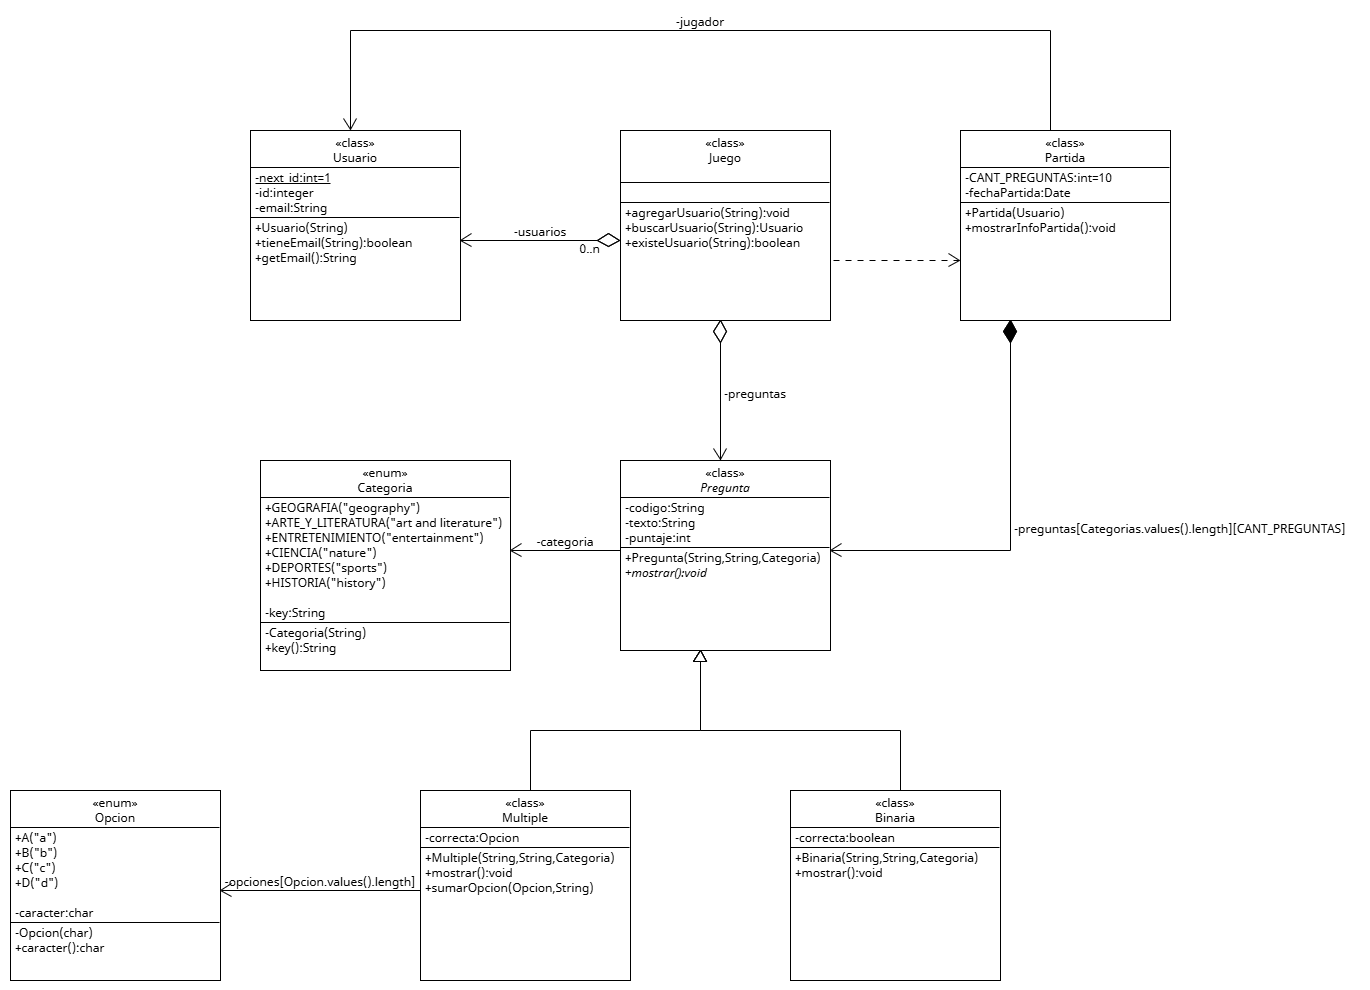
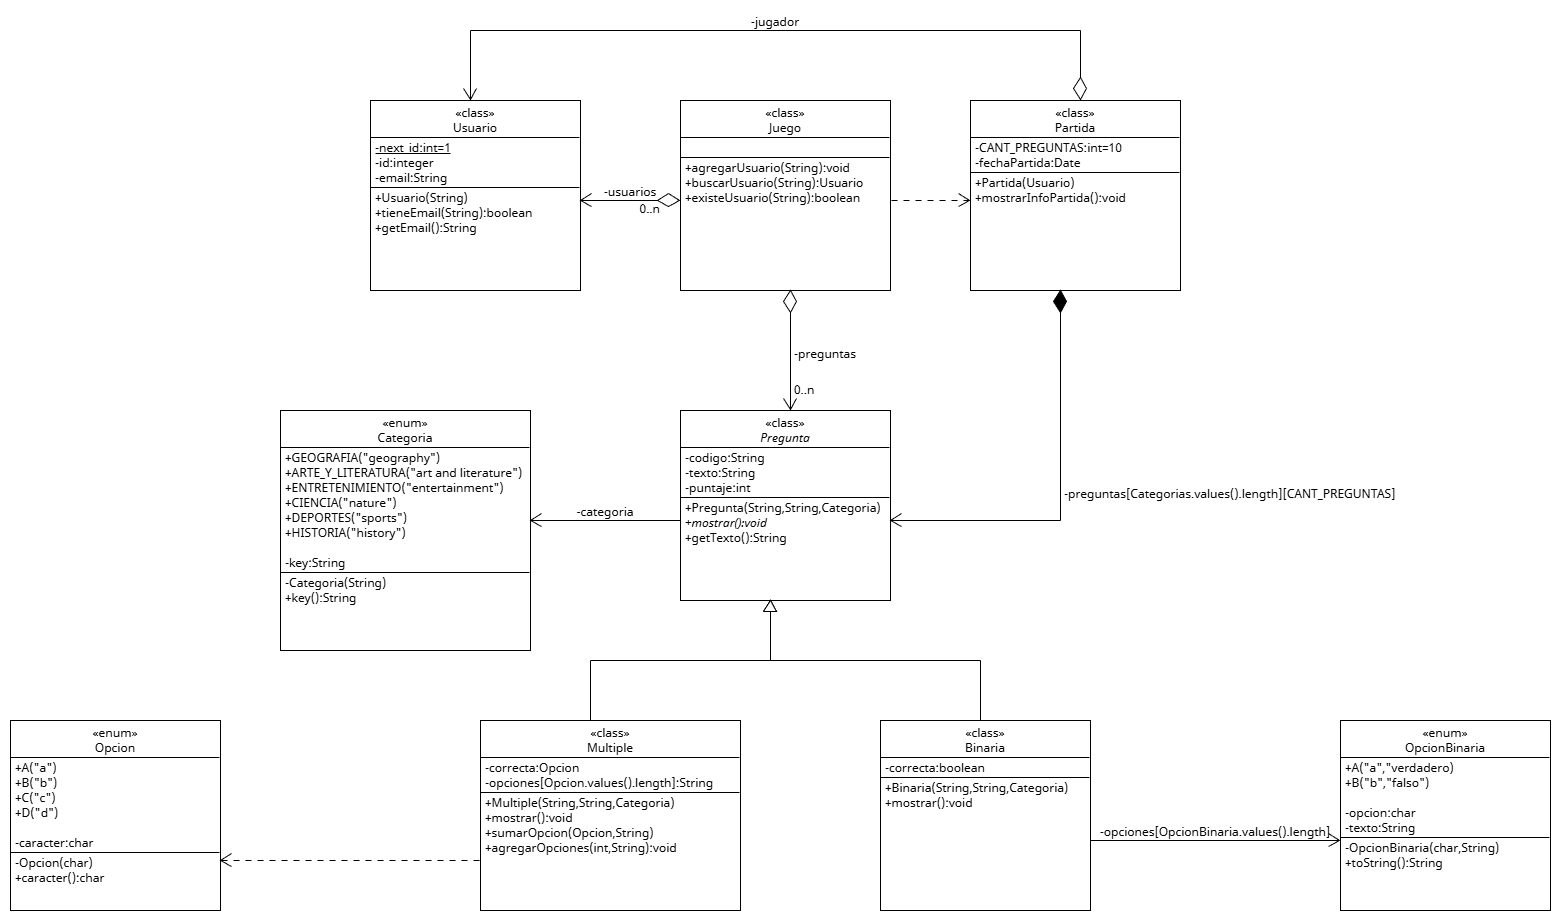
correcciones clases Binaria, agregue OpcionBinaria

diff --git a/src/main/java/ar/com/codigomariano/App.java b/src/main/java/ar/com/codigomariano/App.java
@@ -5,6 +5,9 @@ import java.util.Scanner;
 import ar.com.codigomariano.domain.Juego;
 import ar.com.codigomariano.domain.Partida;
 import ar.com.codigomariano.domain.Usuario;
+import ar.com.codigomariano.domain.pregunta.Binaria;
+import ar.com.codigomariano.domain.pregunta.Multiple;
+import ar.com.codigomariano.enums.Categoria;
 
 public class App {
 	private static Scanner scanner=new Scanner(System.in);
@@ -15,6 +18,15 @@ public class App {
     	Juego juego=new Juego();
     	solicitarEmail(juego);
     	iniciarPartida(juego);
+    	
+    	Multiple pregunta1=new Multiple("M01","¿En qué año se produjo el descubrimiento de América?",Categoria.HISTORIA);
+    	pregunta1.agregarOpciones(0,"1492");
+    	pregunta1.agregarOpciones(1,"1516");
+    	pregunta1.agregarOpciones(2,"1671");
+    	pregunta1.agregarOpciones(3,"1744");
+    	pregunta1.mostrar();
+    	Binaria pregunta2=new Binaria("B01","¿El ajedrez es un deporte olímpico?",Categoria.DEPORTES);
+    	pregunta2.mostrar();
     	scanner.close();
     
     }

diff --git a/src/main/java/ar/com/codigomariano/domain/pregunta/Multiple.java b/src/main/java/ar/com/codigomariano/domain/pregunta/Multiple.java
@@ -1,24 +1,38 @@
 package ar.com.codigomariano.domain.pregunta;
 
-import ar.com.codigomariano.domain.Pregunta;
+
 import ar.com.codigomariano.enums.Categoria;
 import ar.com.codigomariano.enums.Opcion;
 
 public class Multiple extends Pregunta {
 	
 	private Opcion correcta;
-	private Opcion[] opciones=new Opcion[Opcion.values().length];
+	private String[] opciones;
+	
 	
 
 	public Multiple(String codigo, String texto, Categoria categoria) {
 		super(codigo, texto, categoria);
+		this.opciones=new String[Opcion.values().length];
+	}
+	
+	public void agregarOpciones(int posicion,String texto) {
+		this.opciones[posicion]=texto; 
 	}
 
 
-	@Override
+	
 	public void mostrar() {
-		// TODO Auto-generated method stub
+		String textoPregunta=getTexto();
+		System.out.println(textoPregunta);
+		for (int i = 0; i < opciones.length; i++) {
+			sumarOpcion(Opcion.values()[i],opciones[i]);
+		}
 		
+	}
+	
+	public void sumarOpcion(Opcion letra,String texto ) {
+		System.out.println(letra.caracter()+"."+texto);
 	}
 
 }

diff --git a/src/main/java/ar/com/codigomariano/domain/pregunta/Binaria.java b/src/main/java/ar/com/codigomariano/domain/pregunta/Binaria.java
@@ -1,20 +1,26 @@
 package ar.com.codigomariano.domain.pregunta;
 
-import ar.com.codigomariano.domain.Pregunta;
+
 import ar.com.codigomariano.enums.Categoria;
+import ar.com.codigomariano.enums.Opcion;
+import ar.com.codigomariano.enums.OpcionBinaria;
 
 public class Binaria extends Pregunta {
 	
+	private OpcionBinaria[] opciones;
 	private boolean correcta;
 
 	public Binaria(String codigo, String texto, Categoria categoria) {
 		super(codigo, texto, categoria);
+		this.opciones=new OpcionBinaria[] {OpcionBinaria.A,OpcionBinaria.B};
 	}
 
-	@Override
 	public void mostrar() {
-		// TODO Auto-generated method stub
-		
+		String textoPregunta=getTexto();
+		System.out.println(textoPregunta);
+		for (OpcionBinaria opcionBinaria : opciones) {
+			System.out.println(opcionBinaria);
+		}
 	}
 
 }

diff --git a/src/main/java/ar/com/codigomariano/domain/pregunta/Pregunta.java b/src/main/java/ar/com/codigomariano/domain/pregunta/Pregunta.java
@@ -1,4 +1,4 @@
-package ar.com.codigomariano.domain;
+package ar.com.codigomariano.domain.pregunta;
 
 import ar.com.codigomariano.enums.Categoria;
 
@@ -12,6 +12,9 @@ public abstract class Pregunta {
 		this.codigo = codigo;
 		this.texto = texto;
 		this.categoria = categoria;
+	}
+	public String getTexto() {
+		return this.texto;
 	}
 	public abstract void mostrar();
 	

diff --git a/src/main/java/ar/com/codigomariano/enums/OpcionBinaria.java b/src/main/java/ar/com/codigomariano/enums/OpcionBinaria.java
@@ -1,0 +1,21 @@
+package ar.com.codigomariano.enums;
+
+public enum OpcionBinaria {
+	A('a',"Verdadero"),
+	B('b',"Falso");
+	
+	private char opcion;
+	private String texto;
+	
+	private OpcionBinaria(char opcion,String texto) {
+		this.opcion=opcion;
+		this.texto=texto;
+	}
+	@Override
+	public String toString() {
+		return this.opcion+". "+this.texto;
+	}
+	
+	
+
+}

diff --git a/src/main/java/ar/com/codigomariano/domain/Juego.java b/src/main/java/ar/com/codigomariano/domain/Juego.java
@@ -3,6 +3,8 @@ package ar.com.codigomariano.domain;
 import java.util.ArrayList;
 import java.util.List;
 
+import ar.com.codigomariano.domain.pregunta.Pregunta;
+
 public class Juego {
 	private List<Pregunta> preguntas=new ArrayList<Pregunta>();
 	private List<Usuario> usuarios=new ArrayList<Usuario>();

diff --git a/src/main/java/ar/com/codigomariano/domain/Partida.java b/src/main/java/ar/com/codigomariano/domain/Partida.java
@@ -3,6 +3,7 @@ package ar.com.codigomariano.domain;
 import java.text.SimpleDateFormat;
 import java.util.Date;
 
+import ar.com.codigomariano.domain.pregunta.Pregunta;
 import ar.com.codigomariano.enums.Categoria;
 
 public class Partida {
